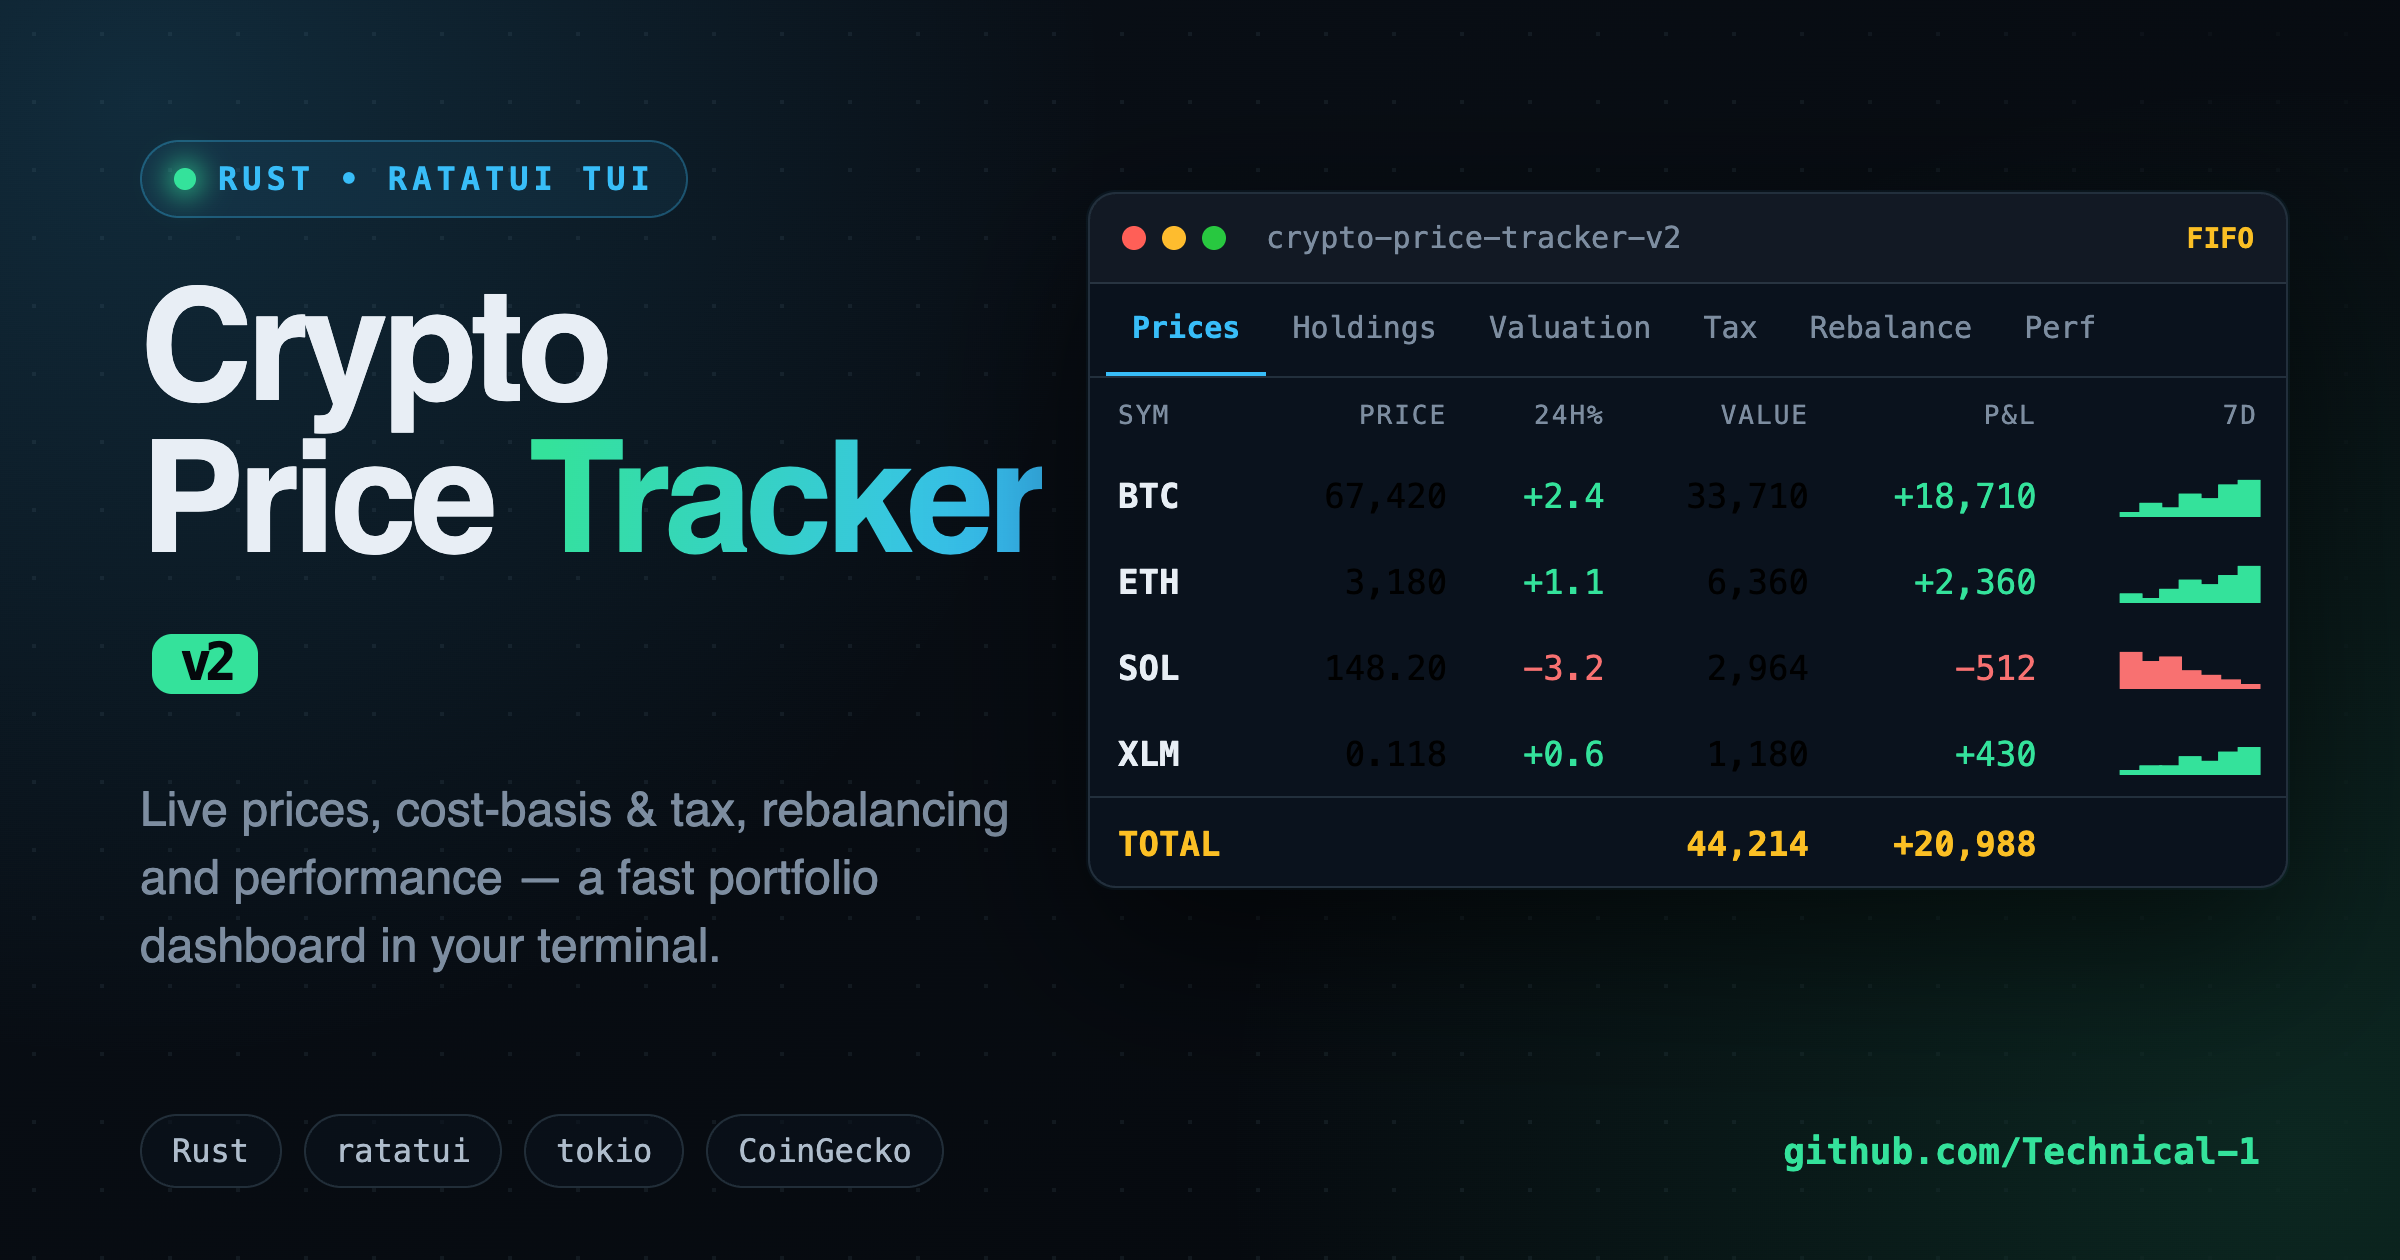
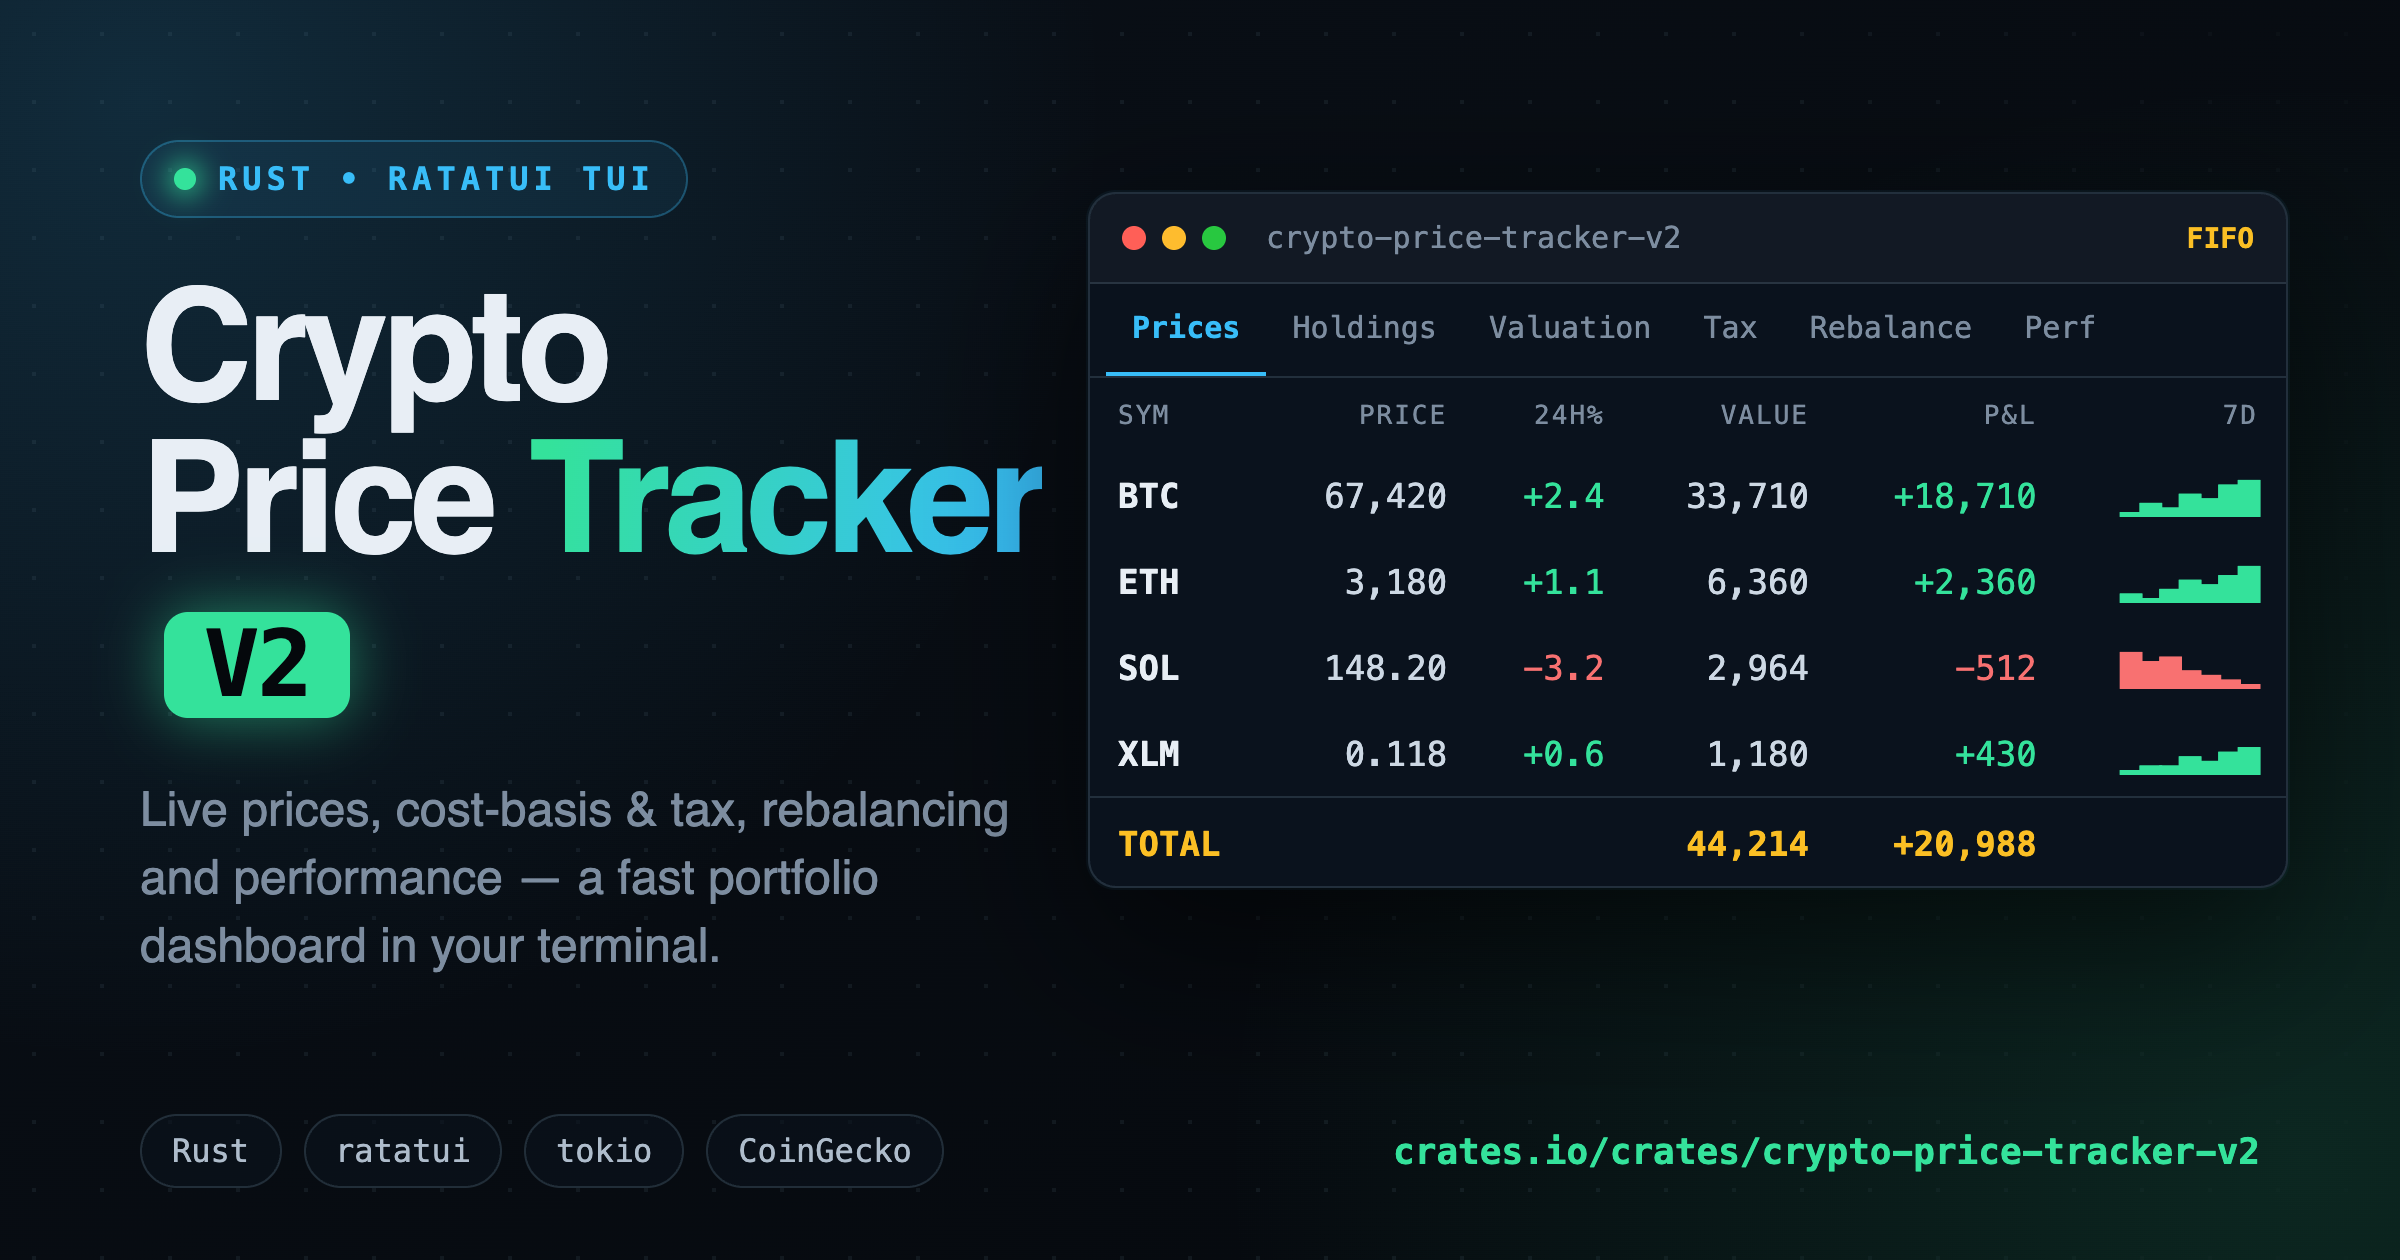
docs: refine portfolio preview image

diff --git a/.portfolio/og-previews/og-home.html b/.portfolio/og-previews/og-home.html
@@ -43,9 +43,9 @@
       line-height: 0.98; color: var(--text); }
     h1 .accent { background: linear-gradient(100deg, var(--green) 5%, var(--cyan) 95%);
       -webkit-background-clip: text; background-clip: text; -webkit-text-fill-color: transparent; }
-    .ver { display:inline-block; font-family:'JetBrains Mono',monospace; font-size: 26px; font-weight:700;
-      color: var(--bg-0); background: var(--green); border-radius: 10px; padding: 2px 14px; margin-left: 6px;
-      vertical-align: middle; }
+    .ver { display:inline-block; font-family:'JetBrains Mono',monospace; font-size: 46px; font-weight:800;
+      color: var(--bg-0); background: var(--green); border-radius: 12px; padding: 4px 20px; margin-left: 12px;
+      vertical-align: middle; box-shadow: 0 0 30px rgba(52, 226, 155, 0.5); letter-spacing: -1px; }
     .subhead { margin-top: 24px; font-size: 24px; font-weight: 400; color: var(--muted); line-height: 1.42; }
 
     /* terminal window */
@@ -65,6 +65,7 @@
 
     table { width: 100%; border-collapse: collapse; }
     th, td { text-align: right; padding: 11px 14px; font-size: 17px; }
+    td { color: #cdd8e4; }
     th { color: var(--muted); font-size: 13px; letter-spacing: 1px; font-weight: 500; }
     th:first-child, td:first-child { text-align: left; }
     .sym { color: var(--text); font-weight: 700; }
@@ -87,7 +88,7 @@
   <div class="og-card">
     <div class="content">
       <div class="eyebrow"><span class="pulse"></span>Rust &bull; ratatui TUI</div>
-      <h1>Crypto<br>Price <span class="accent">Tracker</span><span class="ver">v2</span></h1>
+      <h1>Crypto<br>Price <span class="accent">Tracker</span><span class="ver">V2</span></h1>
       <div class="subhead">Live prices, cost-basis &amp; tax, rebalancing and performance &mdash; a fast portfolio dashboard in your terminal.</div>
     </div>
 
@@ -120,7 +121,7 @@
         <span class="ftag">tokio</span>
         <span class="ftag">CoinGecko</span>
       </div>
-      <div class="url">github.com/Technical-1</div>
+      <div class="url">crates.io/crates/crypto-price-tracker-v2</div>
     </div>
   </div>
 </body>
